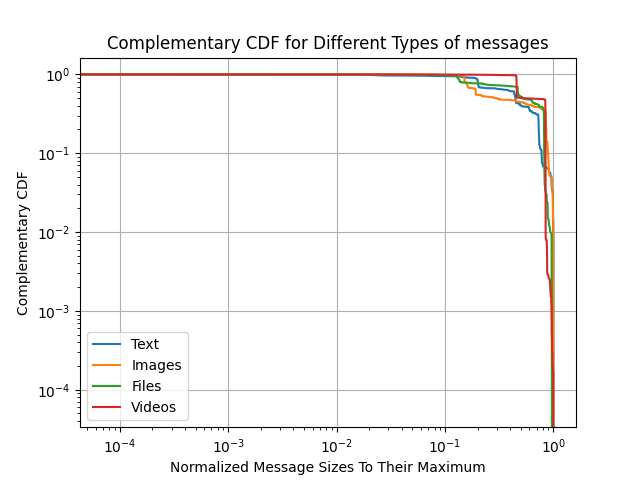
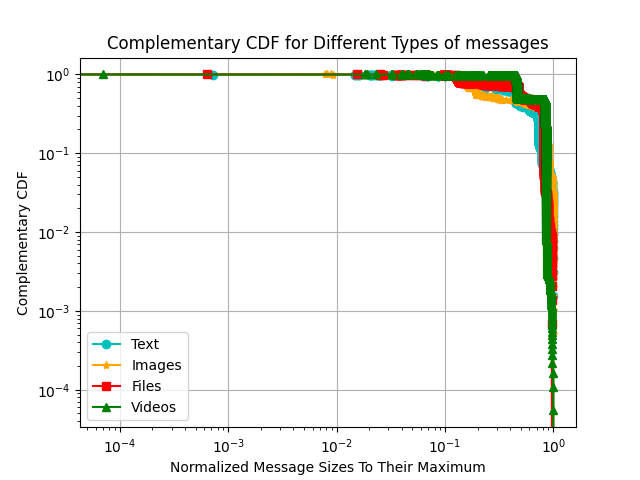
Add a code for the Q-Q plot and save the images

Changed region(s): [[0.125, 0.125, 0.875, 0.9062], [0.1562, 0.6875, 0.1875, 0.8125], [0.1562, 0.8438, 0.1875, 0.875]]

diff --git a/src/Quantile-Quantile_plot.py b/src/Quantile-Quantile_plot.py
@@ -1,0 +1,66 @@
+import numpy as np
+import matplotlib
+import pandas as pd
+import matplotlib.pyplot as plt
+
+matplotlib.use("TkAgg")
+
+# Load the CSV file into a DataFrame
+# Define lists of file paths
+filter_list = ['resources\\WITH_TCP_FILTER_TARGET1.csv', 'resources\\WITH_TCP_FILTER_TARGET2.csv',
+               'resources\\WITH_TCP_FILTER_TARGET3.csv', 'resources\\WITH_TCP_FILTER_TARGET4.csv']
+youtube_list = ['resources\\YOUTUBE_BACKGROUND_TARGET1.csv', 'resources\\YOUTUBE_BACKGROUND_TARGET2.csv',
+                'resources\\YOUTUBE_BACKGROUND_TARGET3.csv', 'resources\\YOUTUBE_BACKGROUND_TARGET4.csv']
+
+# Combine the lists
+concat_list = filter_list + youtube_list
+
+# Prepare list of times for each dataset
+times_list = []
+for i in range(len(concat_list)):
+    # Load data from CSV
+    df = pd.read_csv(concat_list[i])
+    time_list = df['Time'].values.tolist()
+
+    # Round the time values and add to the list
+    times_list.append(list(map(round, time_list)))
+
+# Given inter-arrival times for each csv file
+packet_delay_data = [[], [], [], [], [], [], [], []]
+for i in range(len(times_list)):
+    for j in range(1, len(times_list[i])):
+        # Calculate inter-arrival times and add to the list
+        packet_delay_data[i].append(times_list[i][j] - times_list[i][j - 1])
+
+index = 0
+# Create Q-Q plots for each dataset
+for data in packet_delay_data:
+    recording_name = concat_list[index][10:-4]
+
+    # Create a new figure for each dataset
+    plt.figure(figsize=(6, 4))
+
+    sorted_data = np.sort(data)
+    # Normalize the data to [0, 1] range
+    normalized_data = (np.array(sorted_data) - np.min(sorted_data)) / (np.max(sorted_data) - np.min(sorted_data))
+
+    # Scatter plot of data points
+    plt.scatter(sorted_data, np.sort(normalized_data), marker='o', color='cyan', alpha=0.7,
+                label='Inter-Arrival Times Data')
+
+    # Add a pink line representing the expected distribution
+    plt.plot(sorted_data, np.sort(normalized_data), color='magenta', linewidth=2, label='Expected Distribution')
+
+    # Labels and title
+    plt.xlabel('Delays Distribution Data')
+    plt.ylabel('Normalized Sample Quantiles')
+    plt.title(f'Q-Q Plot - Dataset {recording_name}')
+    plt.legend()  # Add a legend to show the pink line label
+
+    # Save the plot as an image
+    plt.savefig(f'res/{recording_name}_Q-Q_PLOT.png')
+
+    # Show the plot
+    plt.show()
+
+    index += 1

diff --git a/src/PDF_plot.py b/src/PDF_plot.py
@@ -33,8 +33,10 @@ for delay in inter_arrival_times:
 
     # Create the bar histogram plot
     plt.figure(figsize=(10, 6))  # Set the figure size (optional)
-    # Plot the histogram
-    plt.hist(delay, bins=bins, density=True, alpha=0.5, label='Histogram', color="cyan")
+
+    # Plot the hollow histogram (outline only)
+    plt.hist(delay, bins=bins, density=True, histtype='step', color="cyan", edgecolor="cyan",
+             label='Histogram of Inter-Arrival Delays (Hollow)')
 
     # Fit an exponential distribution to the data
     mu = np.mean(delay)
@@ -42,11 +44,15 @@ for delay in inter_arrival_times:
     fit_y = (1 / mu) * np.exp(-fit_x / mu)
     normalize_param = max(fit_y)
     fit_y = fit_y / normalize_param
-    plt.plot(fit_x, fit_y, 'r-', label='Exponential Fit')
+    plt.plot(fit_x, fit_y, 'r-', label='Fitted Exponential Distribution')
 
     plt.xlabel('Inter-Arrival Time (seconds)')
-    plt.ylabel('Probability Density')
+    plt.ylabel('Probability Density (PDF)')
     plt.title(f'Histogram of Inter-Arrival Times for recording: "{recording_name}"')
+
+    # Add a legend
+    plt.legend()
+
     plt.savefig(f'res/{recording_name}_PDF_PLOT.png')
     plt.show()
     index += 1

diff --git a/src/CCDF_plot.py b/src/CCDF_plot.py
@@ -45,10 +45,10 @@ normalized_files_data = (files_and_audios_data - np.min(files_and_audios_data)) 
 normalized_videos_data = (videos_data - np.min(videos_data)) / (np.max(videos_data) - np.min(videos_data))
 
 # Plot the CCDFs with normalized x-axis
-plt.loglog(normalized_txt_data, ccdf_txt, label='Text')
-plt.loglog(normalized_images_data, ccdf_images, label='Images')
-plt.loglog(normalized_files_data, ccdf_files_and_audios, label='Files')
-plt.loglog(normalized_videos_data, ccdf_videos, label='Videos')
+plt.loglog(normalized_txt_data, ccdf_txt, 'co', linestyle='-', label='Text')
+plt.loglog(normalized_images_data, ccdf_images, '*', color='orange', linestyle='-', label='Images')
+plt.loglog(normalized_files_data, ccdf_files_and_audios, 'rs', linestyle='-', label='Files')
+plt.loglog(normalized_videos_data, ccdf_videos, 'g^', linestyle='-', label='Videos')
 
 plt.xlabel('Normalized Message Sizes To Their Maximum')
 plt.ylabel('Complementary CDF')
